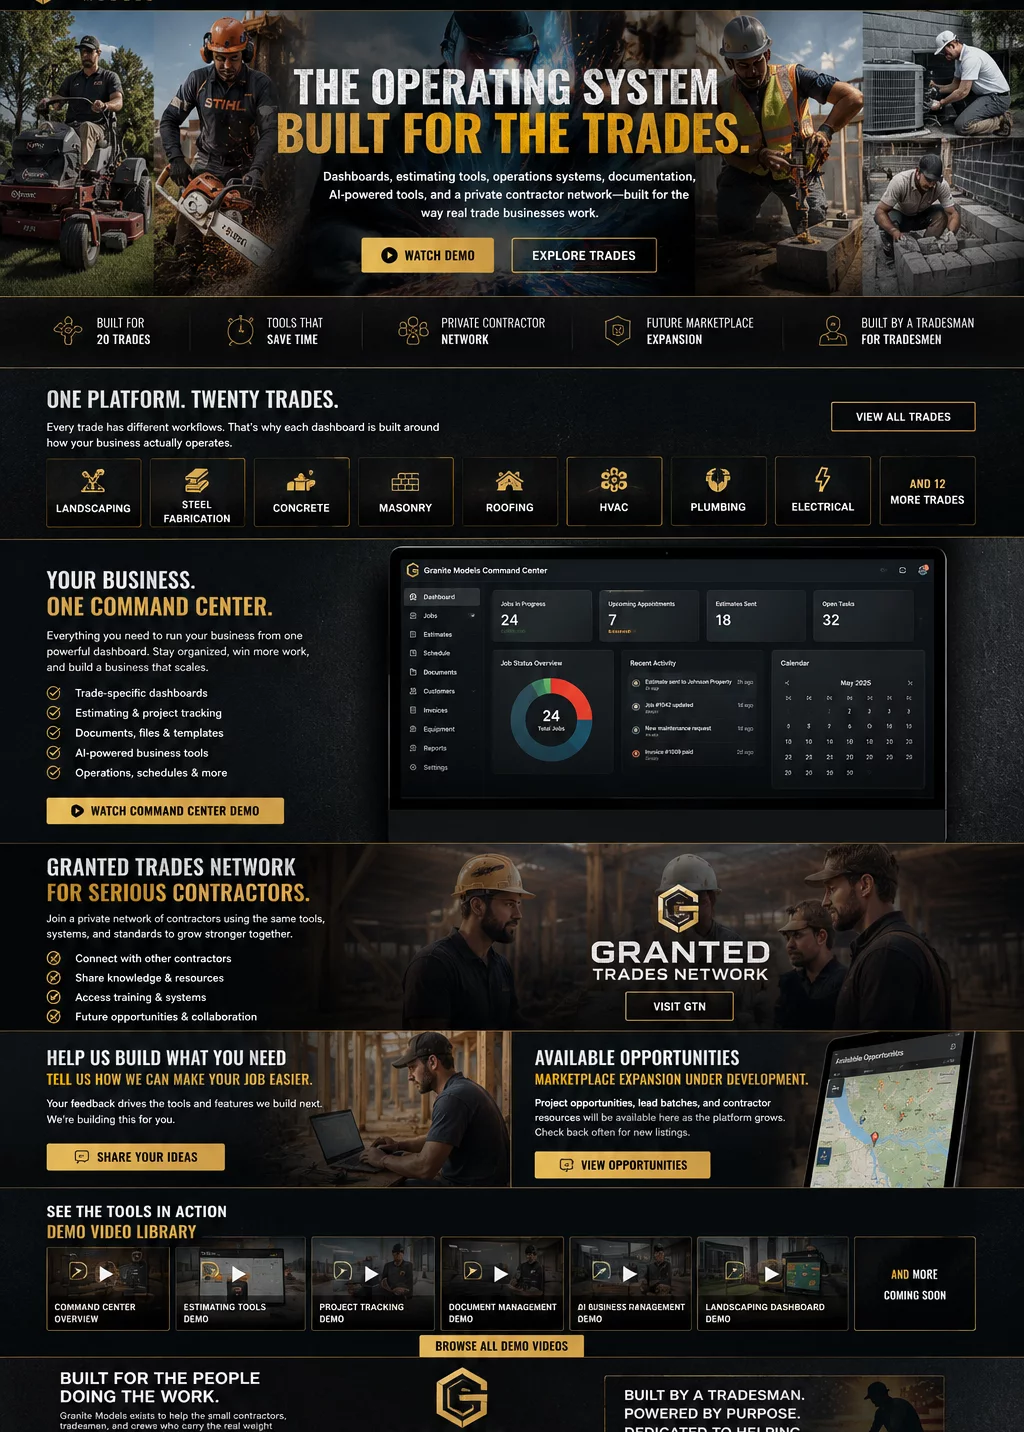
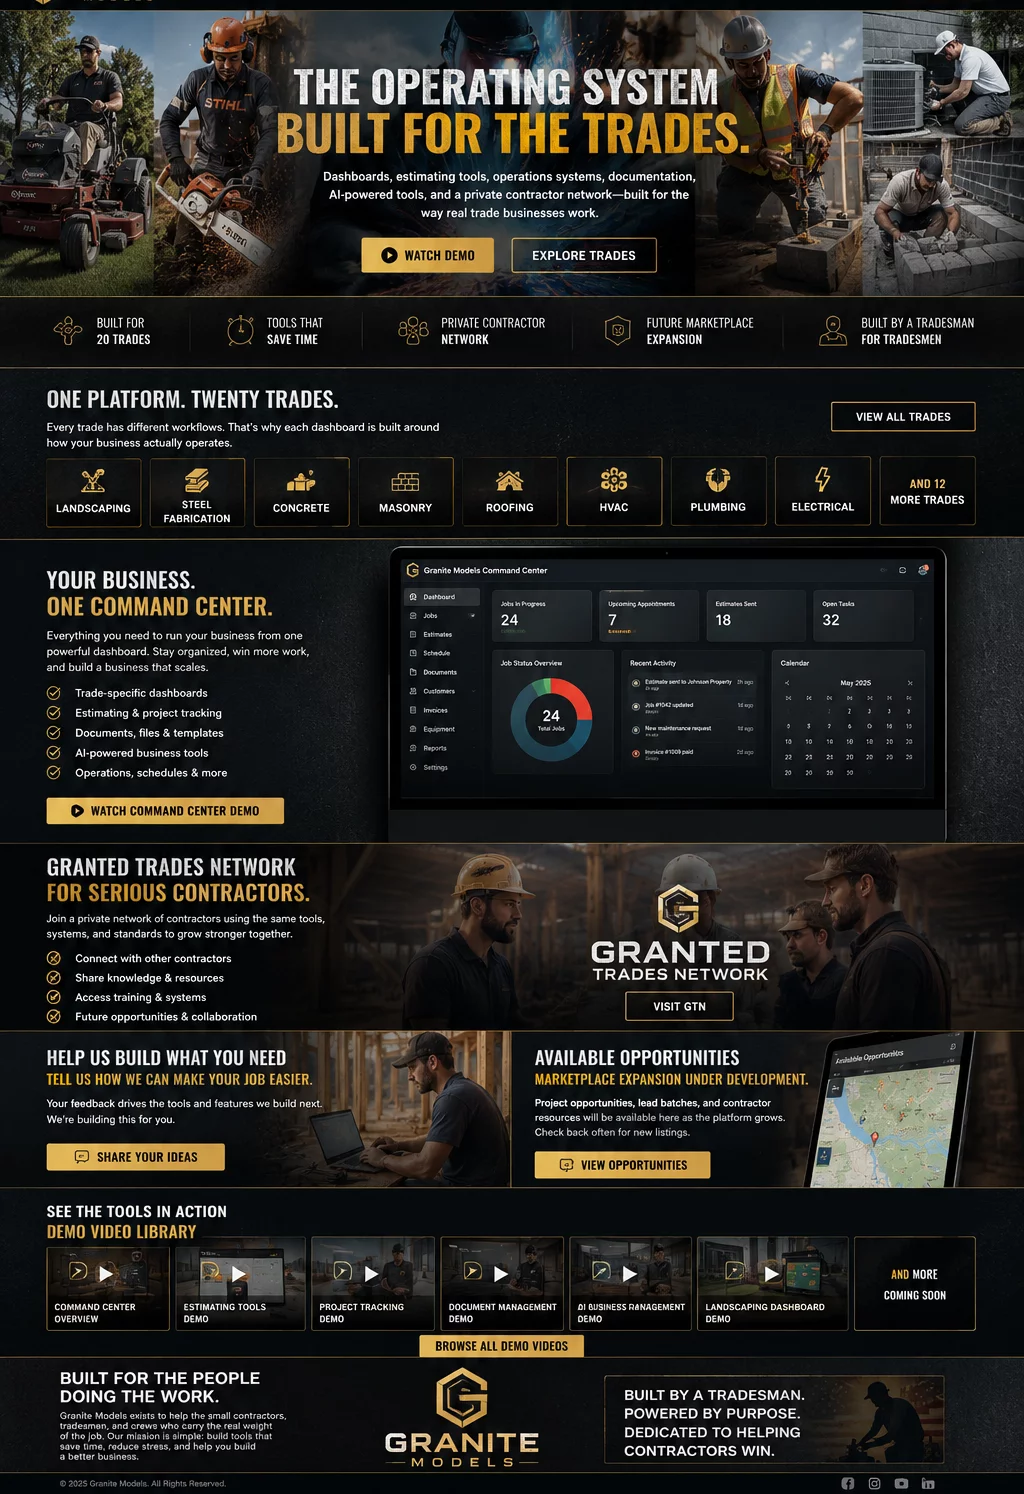
Homepage = interactive image with aligned button hotspots (Granite nav/footer wrap it)

diff --git a/templates/index.html b/templates/index.html
@@ -1,21 +1,19 @@
 {% extends "base.html" %}
 {% block title %}Granite Models — The Operating System Built for the Trades{% endblock %}
-{% block description %}Granite Models is the Trades Operating System: trade-specific dashboards for 20 trades, contractor tools, AI systems, demo videos, and the Granite Trades Network — built for serious tradesmen.{% endblock %}
+{% block description %}Granite Models is the Trades Operating System: dashboards, estimating tools, operations systems, documentation, AI tools, and the Granite Trades Network — built for 20 trades.{% endblock %}
 {% block og_title %}Granite Models — The Trades Operating System{% endblock %}
 
 {% block content %}
 <div class="tos-page-img">
   <img src="/static/img/page-home.webp" class="tos-page-img-full"
-       alt="Granite Models — The Operating System Built for the Trades. Dashboards, estimating tools, operations systems, documentation, AI-powered tools, and the Granite Trades Network, built for 20 trades.">
-
-  {# Clickable buttons positioned over the ones drawn on the image. Tunable by %. #}
-  <a class="tos-hot" href="/demo-videos"            style="left:13.5%;top:7.2%;width:11.5%;height:3.1%;" aria-label="Watch Demo"></a>
-  <a class="tos-hot" href="/tools"                  style="left:25.5%;top:7.2%;width:13.5%;height:3.1%;" aria-label="Explore Trades"></a>
-  <a class="tos-hot" href="/tools"                  style="left:79%;top:16%;width:17%;height:2.7%;"      aria-label="View all trades"></a>
-  <a class="tos-hot" href="/demo-videos"            style="left:5%;top:38.2%;width:23%;height:3.1%;"      aria-label="Watch Command Center demo"></a>
-  <a class="tos-hot" href="/granite-trades-network" style="left:59%;top:49.4%;width:13%;height:3.1%;"     aria-label="Visit Granite Trades Network"></a>
-  <a class="tos-hot" href="/contact"                style="left:5%;top:57.6%;width:17%;height:3.1%;"      aria-label="Share your ideas"></a>
-  <a class="tos-hot" href="/leads"                  style="left:52.5%;top:57.6%;width:17%;height:3.1%;"   aria-label="View opportunities"></a>
-  <a class="tos-hot" href="/demo-videos"            style="left:37%;top:67.3%;width:24%;height:2.7%;"     aria-label="Browse all demo videos"></a>
+       alt="Granite Models — The Operating System Built for the Trades.">
+  <a class="tos-hot" href="/demo-videos"            style="left:33.2%;top:15.6%;width:10.7%;height:2.9%;" aria-label="Watch Demo"></a>
+  <a class="tos-hot" href="/tools"                  style="left:44.9%;top:15.6%;width:16.1%;height:2.9%;" aria-label="Explore Trades"></a>
+  <a class="tos-hot" href="/tools"                  style="left:78.1%;top:24.5%;width:18.1%;height:2.7%;" aria-label="View all trades"></a>
+  <a class="tos-hot" href="/demo-videos"            style="left:2.7%;top:39.4%;width:26.6%;height:2.9%;"  aria-label="Watch Command Center demo"></a>
+  <a class="tos-hot" href="/granite-trades-network" style="left:50.8%;top:49.2%;width:15.6%;height:2.9%;" aria-label="Visit Granite Trades Network"></a>
+  <a class="tos-hot" href="/build-with-us"          style="left:2.7%;top:52.9%;width:27.5%;height:2.9%;"  aria-label="Share your ideas"></a>
+  <a class="tos-hot" href="/opportunities"          style="left:51.3%;top:52.9%;width:20%;height:2.9%;"   aria-label="View opportunities"></a>
+  <a class="tos-hot" href="/demo-videos"            style="left:37.1%;top:66.9%;width:23.9%;height:2.8%;" aria-label="Browse all demo videos"></a>
 </div>
 {% endblock %}

diff --git a/REBUILD_CHECKLIST.md b/REBUILD_CHECKLIST.md
@@ -1,0 +1,47 @@
+# REBUILD CHECKLIST — Granite Models (live site)
+
+## Architecture decision
+Flat mockup-image + hotspot overlay = misaligned buttons, baked "Granted" text, dead demos.
+REPLACE with compact real HTML per page: gold theme, hero photo cropped (text-free) from the
+provided images, correct text, real aligned buttons, working videos/forms. Each page ≤ ~2 screens.
+
+## GLOBAL
+- [ ] Every page COMPACT — no stretching (≤ ~2 screens).
+- [ ] "Granite Trades Network" everywhere — ZERO "Granted".
+- [ ] Jon Anderson; no fake phone / address (email [email redacted]).
+- [ ] Use the provided page images (hero photos), no empty placeholders.
+- [ ] Real buttons that line up + actually navigate.
+
+## HOMEPAGE (/)
+- [ ] Rebuild as real HTML (not flat image). Compact.
+- [ ] Hero: clean photo + headline + WORKING Watch Demo / Explore Trades buttons.
+- [ ] Short link-out sections: Tools & Dashboards, Demo Videos, Granite Trades Network, Opportunities, Build With Us, About — each a card/button that WORKS.
+- [ ] NOT duplicated with the Build With Us page.
+
+## TOOLS & DASHBOARDS (/tools)
+- [ ] Tool cards = price + free trial + demo video COMBINED into one good-looking card.
+- [ ] Compact.
+
+## DEMO VIDEOS (/demo-videos)
+- [ ] "Why Watch the Demos" section ABOVE the demos.
+- [ ] Demos actually play.
+
+## GRANITE TRADES NETWORK (/granite-trades-network)
+- [ ] ONE page, compact (not 4 screens).
+- [ ] Use the GTN hero photo (no empty placeholder).
+- [ ] "Granite" not "Granted".
+
+## OPPORTUNITIES (/opportunities)
+- [ ] Real HTML, compact, hero photo, working buttons (Browse → /leads).
+
+## BUILD WITH US (/build-with-us)
+- [ ] Its OWN page, separate from homepage, with the working form. Compact.
+
+## ABOUT (/about)
+- [ ] Compact, hero photo, Jon Anderson, 25+ yrs / 96 programs.
+
+## CONTACT (/contact)
+- [ ] Compact, working form, email only.
+
+## PRICING (/pricing)
+- [ ] Give it its own hero image.